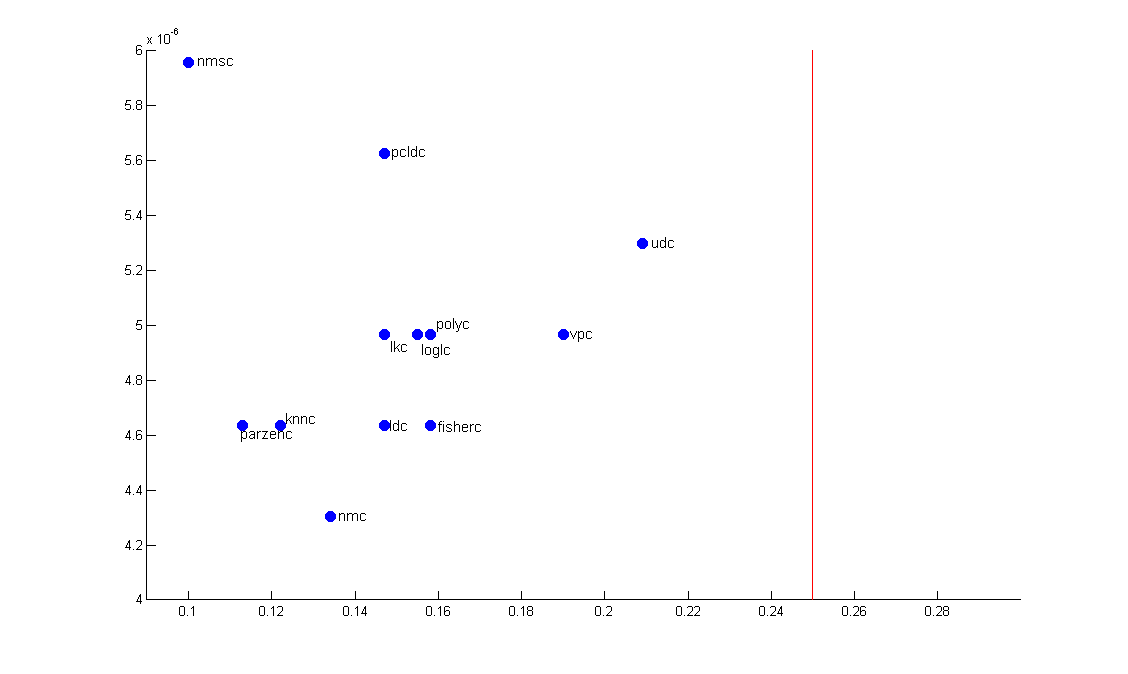
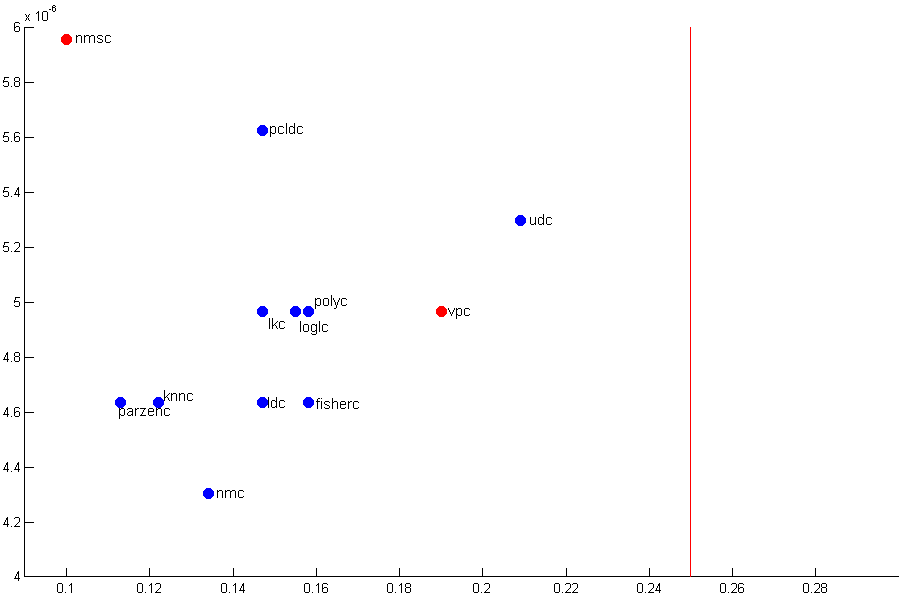
Paper correctie

diff --git a/paper/document.tex b/paper/document.tex
@@ -22,7 +22,7 @@
         twoside,
         ]{ieee}
 
-% Reset to LaTeX kernel version of \@xfloat
+% Reset to LaTeX kernel version of \@xfloat 
 \makeatletter
 \def\@xfloat#1[#2]{
 \my@xfloat#1[#2]% 
@@ -87,7 +87,7 @@ Pattern Recognition Group (in 2004 renamed to Quantitative Imaging) at the
 Faculty of Applied Physics (later Applied Sciences) of Delft University of
 Technology \cite{Ferdi}.
 This toolbox contains common classifiers used for pattern recognition which
-include among others support vector machine and k-nearest-neighbour classifier. We will first
+include among others the support vector machine and the k-nearest-neighbour classifier. We will first
 discuss how we solved the first case, then the second case and finally we will
 give some conclusions and recommendations about how this could be applied in a
 banking system. Prior experience with person recognition \cite{Tamis} led us to
@@ -95,10 +95,9 @@ the use of Histogram of Oriented Gradients feature
 extraction in combination with a support vector machine classifier. Eventually
 the support vector machine would be dropped in favor of a similar less
 computationally expensive classifier named the voted perceptron classifier. Many
-other classifiers were also tested.
+other classifiers were also tested. For the second case where the data set was small we found that the nearest nearest mean scaled classifier performs best.
 
 \section{Methods}
-
 \subsection{Pre-processing}
 Either before training or classification a preprocessing step is used in order
 to filter out noise and transform the image in such a way that structure is
@@ -113,11 +112,9 @@ images from different sizes that each contains a handwritten digit.
     \label{fig:preprocessing}
 \end{figure}
 
-Figure \ref{fig:preprocessing} shows the pipeline that was used for preprocessing. First noise is reduced by removing very small objects. Then the data is closed in case the image contains gaps. Then the data is rotated so the longest side of the data (side with the most variance) is parallel to the x axis. Then the features of our data are extracted and finally principal component analysis is used to reduce the size of the feature set as some features are barely to not used.
-
-Below are a couple of examples that show noise reduction and slant correction
-based on the scheme above:
-
+Figure \ref{fig:preprocessing} shows the pipeline that was used for preprocessing. First noise is reduced by removing very small objects. Then the data is closed in case the image contains gaps. Then the data is skewed so the longest side of the data (side with the most variance) is parallel to the y axis (slant correction). Then the features of our data are extracted and finally principal component analysis is used to reduce the size of the feature set as some features are barely to not used.\\\\
+In Table I some examples that show noise reduction and slant correction
+are shown based on the scheme above.
 \begin{table}
     \begin{tabular}{|c|c|}
         \hline
@@ -150,8 +147,8 @@ Next we transform the binary input image such that it is centered and oriented i
 We first need to center the image. To do this we find the image centroid, which is simple the mean of the x axis and the y axis:
 
 \begin{align}
-    x&=(x_1+x_2+...+x_n)/n \\
-    y&=(y_1+y_2+...+y_n)/n
+    \bar{x}&=(x_1+x_2+...+x_n)/n_x \\
+    \bar{y}&=(y_1+y_2+...+y_n)/n_y
 \end{align}
 
 In order to find the orientation of binary numbers we used central moments. Central moments are calculated in the following way and make use of the centroid:
@@ -165,7 +162,7 @@ Next we you use this definition to compute $\mu_{20}, \mu_{21}, \mu_{11}$ which 
 
 \begin{equation}
     \Theta = \frac{1}{2} \arctan \left(
-        \frac{2\mu'_{11}}{\mu'_{20} - \mu'_{02}}
+        \frac{2 \cdot \mu_{11}}{\mu_{20} - \mu_{02}}
     \right)
 \end{equation}
 
@@ -183,22 +180,21 @@ Finally the images are scaled to 32 by 32 pixels, ready for feature selection, e
 \subsection{Feature extraction and selection}
 We used two methods for feature extraction and selection. The first method used
 is called Histogram Oriented Gradients and is a form of feature extraction and
-selection that describes the orientation of the gradient in terms of frequency. The second method used is called principal component analysis and is used to remove those Histogram Oriented Gradient features with the least variance, and is thus a form of feature selection or dimensionality reduction. But before using these features we tested and experimented with combinations of features that are commonly used when dealing with handwriting detection. We list a couple of them below:
+reduction that describes the orientation of the gradient in terms of frequency. The second method used is called principal component analysis and is used to remove those histogram of oriented gradient features with the least variance, and is thus a form of feature selection or dimensionality reduction. But before arriving at these features we first tested and experimented with combinations of other features that are commonly used when dealing with handwriting detection. We list a couple of them below:\\
 
     \begin{enumerate}
         \item Using raw pixels as a control
         \item Image profiles
         \item Image moments such as hu moments
-        \item Canny edge detector
+        \item Canny edge detector\\
     \end{enumerate}
-
-
+We however found that none could compete with the histogram of oriented gradients in combination with the classifiers tested.
     \subsubsection{Raw pixels}
 The simplest features that can be taken from an image are the raw pixels. This
 it also the fastest feature extraction, because the only operation that needs
 to be performed is the scaling of all images to the same size. We tried this for
 different image sizes. Most digits got recognized well by using this method. The
-error rate on a big dataset was about 10\%. Especially the digits three and five in particular were often mixed up. Therefore we continued on with other feature extraction methods.
+error rate on a big dataset was about 10\%. In particular the digits three and five were often mixed up. We used the raw data as a control to compare features based on classification errors. 
 
 \subsubsection{Histogram oriented features (HOG)}
 Histogram of Oriented Gradients is a feature extraction and selection technique.
@@ -215,54 +211,41 @@ We now obtain two images containing the x derivative and y derivative respective
         \frac{\partial f}{\partial x}\right)
 \end{equation}
 
-The next step is to create cells which will contain histograms. In the original paper the gradient magnitude of each pixel within the range of a given bin is summed to get the final bin value. The original paper is aimed at pedestrian detection however using grey scale images. Because we are using binary images we simply increase the bin with one if the gradient direction of a pixels lays within the range of the given bin.
-
+The next step is to create cells which will contain histograms. In the original paper the gradient magnitude of each pixel within the range of a given bin is summed to get the final bin value. The original paper is aimed at pedestrian detection however using grey scale images. Because we are using binary images we simply increase the bin with one if the gradient direction of a pixels lays within the range of the given bin.\\\\
 This method will result in several bins per cell, the original author used nine
 bins per cell, we found through experiment that 9 bins were most effective for
-our problem. Also we found that using 16 cells worked best as opposed to nine used by the original author.
-
-Next the author locally normalizes the cells in order to compensate for illumination and contrast. However we do not implement this step as we are using binary images and thus both the contrast and illumination are already normalized perfectly across our image.
-
+our problem. Also we found that using 16 cells worked best as opposed to nine used by the original author.\\\\
+Next the author locally normalizes the cells in order to compensate for illumination and contrast. However we do not implement this step as we are using binary images and thus both the contrast and illumination are already normalized perfectly across our image.\\\\
 The last step is to put all the bins of each cells into a column vector which has became our feature vector for classification.
-
-%HOW DID WE DERIVE AT THE GIVEN PARAMETERS?
-
 \subsection{Principal component analysis}
-The hog descriptor does a good job at both reducing the amount of features needed as well as extracting features that are easier to classify by classifiers. However there will still remain features (bins) that are either always empty or are barely used. For this reason we apply Principal Component analysis, which will extract the principal components and allows us to remove those with too little variance (empty to barely filled bins).
-
+The hog descriptor does a good job at both reducing the amount of features needed as well as extracting features that are easier to classify by the bulk of classifiers. However there will still remain features (bins) that are either always empty or are barely used. For this reason we apply Principal Component analysis, which will extract the principal components and allows us to remove those with too little variance (empty to barely filled bins).\\\\
 Principal component analysis (pca) is a data reduction technique that generates a set of
-principal components such that as much variance as possible between the features is maintained.  In the features which we extracted from the data, some features don't differ as much as other features. This is due to the way the numbers are usually written and the orientation correction we used in a previous step. We therefore use pca to make our featureset smaller, so that our classifier becomes faster.
-
+principal components such that as much variance as possible between the features is maintained.  In the features which we extracted from the data, some features don't differ as much as other features. This is due to the way the numbers are usually written and the orientation correction we used in a previous step. We therefore use pca to make our featureset smaller, so that our classifier becomes faster.\\\\
 The mathematical theory behind pca is as follows:
-Let X be a feature matrix with the rows representing different samples and the
+Let $X$ be a feature matrix with the rows representing different samples and the
 columns representing different features.  We first subtract the mean of each
 feature from the columns so that the mean of each column, becomes 0. We call
 this new matrix $X_{adjusted}$. Then we do an eigenvalue decomposition of the
 covariance of this matrix. $PDP^{-1}=cov(X_{adjusted})$. By sorting the
-eigenvectors by corresponding eigenvalues, we can find the L vectors that
+eigenvectors by corresponding eigenvalues, we can find the $L$ vectors that
 contribute most to our data.  The highest eigenvalues correspond to the
 eigenvectors that capture most covariance. The multiplication of our data with
 these eigenvectors $X_{reduced}=P_L X_{adjusted}$ will then become our reduced feature set.
-\cite{Pearson}
-
-% TODO
-We tested pca on our featur eset, keeping 99\% of all data and found a reduction
-of …. The performance of our algorithm, didn't become worse significantly and
-only decreased by ... \%.
-
+\cite{Pearson}\\\\
+We tested pca on our feature set, keeping 99\% of all data and found a reduction
+of about 45\% dependant on the data set. 
 \section{Classification Data Set}
 Although we initially opted to use the support vector machine, we tested many
 classifiers in order to find the classifier that would give us the best
-classification result. It turned out that several classifiers were simply
-computationally too expensive to test. We used the nist\_eval function provided
+classification result. It turned out that several classifiers were simply too
+computationally expensive to test. We used the nist\_eval function provided
 by the client to test all the classifiers. The support vector machine classifier
 was one of these classifiers together with all neural network based classifiers
 that were too computationally expensive to subject to rigorous testing and were
 therefore not considered. We excluded these classifiers as we wish to provide a
 certain degree of classification certainty to our client. We soon found a
-similar classifier called the Voted Perceptron classifier and found this to be
-the most likely candidate for use in classification as it is very similar to the
-Support Vector Machine. This notion was confirmed in the testing phase as it
+similar classifier too the support vector machine called the Voted Perceptron classifier and found this to be
+the most likely candidate for use in classification. This notion was confirmed in the testing phase as it
 yielded the lowest error on the large data set of all classifiers considered.
 For the small data set however the voted perceptron classifier performed decent
 but not excellent. We found that the nearest mean scaled classifier performed
@@ -303,9 +286,9 @@ Parzen Classifier & 0.1130 & 0.4635 \\
         \hline
     \end{tabular}
     \caption{
-        This table shows the error and execution time of 20 fold cross
-        validation for the large data set which consists of 100
-        samples per class }
+        This table shows the error and execution time on the nist\_eval function
+        which uses 100 samples per class to test the classifier. The training
+        data consisted of 10 samples per class. }
 \end{table}
 
 \begin{table}
@@ -339,22 +322,23 @@ Parzen Classifier & 0.0440 & 0.4635 \\
         data consisted of 100 samples per class. }
         
 \end{table}
-
-\begin{figure}[H]
-    \includegraphics[width=\columnwidth]{images/large_data_set_tested.png}
+\begin{figure}[] 
+    \includegraphics[scale=0.385]{images/large_data_set_tested.png}
 
     \caption{ This table shows the error and execution time on the nist\_eval
     function which uses 100 samples per class to test the classifier. The
-training data consisted of 10 samples per class. }
+training data consisted of 10 samples per class.The
+        red line shows the 25\% maximum error set by the client. }
     \label{fig:test-large}
 \end{figure}
     
-\begin{figure}[H]
-    \includegraphics[width=\columnwidth]{images/small_data_set_tested.png}
+\begin{figure}[]
+    \includegraphics[scale=0.385]{images/small_data_set_tested.png}
 
     \caption{
-        A plot of the error on the x axis the execution time of the nist\_eval
-        function on the y axis using a 100 samples per class training set. The
+        This table shows the error and execution time on the nist\_eval
+    function which uses 100 samples per class to test the classifier. The
+training data consisted of 100 samples per class.The
         red line shows the 5\% maximum error set by the client.  }
     \label{fig:test-small}
 \end{figure}
@@ -372,19 +356,18 @@ this classifier was too heavy for the problem at hand we opted for a simpler but
 similar classifier, namely the voted perceptron classifier. This study by Manabu
 Sassano, IJCNLP compared the SVM classifier to the voted perceptron classifier
 and found them almost equal in terms of accuracy. The advantage however of the
-Voted Perceptron Classifier is that is significantly faster in terms of learning
-and prediction time.
-
+Voted Perceptron Classifier is that it is significantly faster in terms of learning
+and prediction time.\\\\
 The Voted Perceptron Classifier is very easy to understand, let $x$ denote the
 feature vector were $||x||$ denotes the amount of features and $y \in \{-1,1\}$
 the corresponding label. The training algorithm simply starts by applying the
 prediction step which is the simple function $\hat{y} =
-sing(\overline{v}\overline{x})$ were $\overline{v}$ is
-initialized at the beginning as $\overline{v}=0$. If the prediction of $y$ is correct i.e.
+sign(\overline{v}\cdot\overline{x})$ were $\overline{v}$ is
+initialized at the beginning as $\overline{v}=\bar{0}$. If the prediction of $y$ is correct i.e.
 $\hat{y}=y$
 then no further steps are taken. If however the prediction is not correct then
 the training step occurs. This training step takes the form of the following
-simple equation . It has been shown that if the data is linearly separable that
+simple equation $\bar{v}=\bar{v}+y\bar{x}$ . It has been shown that if the data is linearly separable that
 the algorithm will make a finite number of mistakes but will converge after a
 certain amount of cycles to the right answer. If however the data is not
 linearly separable the algorithm will not converge. Therefore the amount of
@@ -395,35 +378,25 @@ needed.
 % TODO mooiere formules
 \subsection{Nearest Mean Scaled Classifier}
 The nearest mean scaled classifier is an extension of the nearest mean
-classifier, so I will describe that one first.
-
+classifier, so I will describe that one first.\\\\
 The nearest mean classifier is a classifier that assigns a sample to the class
 to which its euclidean distance is smallest. So from the training data the mean
-is taking for each class and assigned to $M\_C$ and then it minimizes:
-
+is taking for each class and assigned to $M_C$ and then it minimizes:
 \begin{equation}
     (X - M_c)^2 \text{ for $c \in C$}
 \end{equation}
-
 In which X is the feature vector from the sample that needs to be classified.
 And C are the classes. $M = {M_1, …, M_k}$ are the mean vectors of all the classes
 it could get assigned to.
-So $M_c = \sum{x \in X \text{ for all $X \in C$}}$
-
+So $M_c = \sum{x \in X \text{ for all $X \in C$}}$\\\\
 The nearest mean scaling classifier is similar to a nearest mean classifier,
 except that nmsc makes the assumption that the data is according to a normal
 distribution, to which the data is scaled first.
 
 \subsection{Kernel Mapping The data for classification}
-The Voted Perceptron Classifier is in essence a linear classifier that can be made non linear by adding extra dimension based on the data itself. The way the data is mapped to extra dimensions is called kernel mapping, where the kernel dictates the structure of the added higher dimension. We experimented with sever proximity based kernels non linearise the classifier but they all yielded worse results. This suggests the data to be linear and no kernel mapping is required.
+The Voted Perceptron Classifier is in essence a linear classifier that can be made non linear by adding extra dimension based on the data itself. The way the data is mapped to extra dimensions is called kernel mapping, where the kernel dictates the structure of the added higher dimension. We experimented with sever proximity based kernels to construct a non linear VPC but they all yielded worse results. This suggests the data to be linear and no kernel mapping is required.
 
-\subsection{Large and small data set}
-We opted to use the Voted Perceptron Classifier for both the large and the small data sets as the classifier error rate scales well with data set size making it a multipurpose classifier for size varying datasets.
-%\section{Conclusion}
-%\section{Recommendations}
-
-% TODO
-\section{Future work}
+\section{Future work} 
 One thing that could be researched for performance accuracy would be combining
 classifiers.  For example we may be able to increase performance by
 bootstrapping from the training set and training multiple voted perceptron
@@ -440,31 +413,20 @@ the top 5 classifiers of both the small and large datasets respectively.
 We have shown that by using central moments and skewing we can provide decent
 text slanting correction. We also show that we can filter out noise using
 erosion and dilation filters. We have also obtained desirable low level error
-rates within the boundaries set by the client.
-
+rates within the boundaries set by the client.\\\\
 From our tests it seems like the more data is used for training the better the
 results. When 1000 instead of 10 samples per class are used, the error becomes
-10 times as small. However a very large increase in data is needed, to make a
-significance impact.  Since the system is not completely full proof (There is
-still an error amount of 3.5 \%), we recommend that if very high amounts of
-money are transferred, these should still be checked by a human being.
-We don't think that adding more features to the image will drastically improve
-the result. The methods we used to generate features are already using the
-complete image and adding more features, would add the risk of overfitting the
-data.
+10 times as small. However this does not mean that we will ever achieve a zero percent error rate. This is because there is a degree of subjectivity in the data, what one person may label a eight may be labeled by others as a six. We thus we see practically identical symbols in more than one class. We can only approximate with a large enough data set what class label the average person would give to a number symbol. \\\\
+In this sense the system will never reach a zero percent error. Adding extra features also won't solve this problem as ambiguity can still occur. With this insight we recommend using ambiguity rejection were credit cards with ambiguous unclear numbers can be traced back to their owners by employees. \\\\
+We believe that a single classifier will suffice for classification as a large training set is already available and classification error and time is low. We understand that the choice of classifier is important when dealing with this problem we however belief that the feature extraction method used is more important in order to minimize the classification error. This can be seen in figures two and three which show good performance for many classifiers. \\\\
 Another thing that might be looked into, are the classifiers based on a neural
 network. In our experiments, these classifiers performed too slow, but a more
 efficient implementation and with more time to train them, these classifiers
-might do pretty well.
-If no better classifier is found, we recommend using the nearest mean scaled
-classifier, which performed best in our experiments.
-
- %will having more training data help?
- %– would other features help?
- %– does the application require reject options?
- %– does a single classifier suffice for all digits on a bank cheque?
- %– what is the role of time constraints?
- %– etc.
+might do pretty well and would automatically return a degree of certainty per number.\\\\
+If no classifiers can be combined, a single method has to be chosen and
+performance is an issue, then we recommend the Nearest Mean Scaled classifier if
+the training set is small and Voted Perceptron classifier if the training set is
+big.
 
 %\bibliographystyle{plain}
 %\bibliography{mybib}
